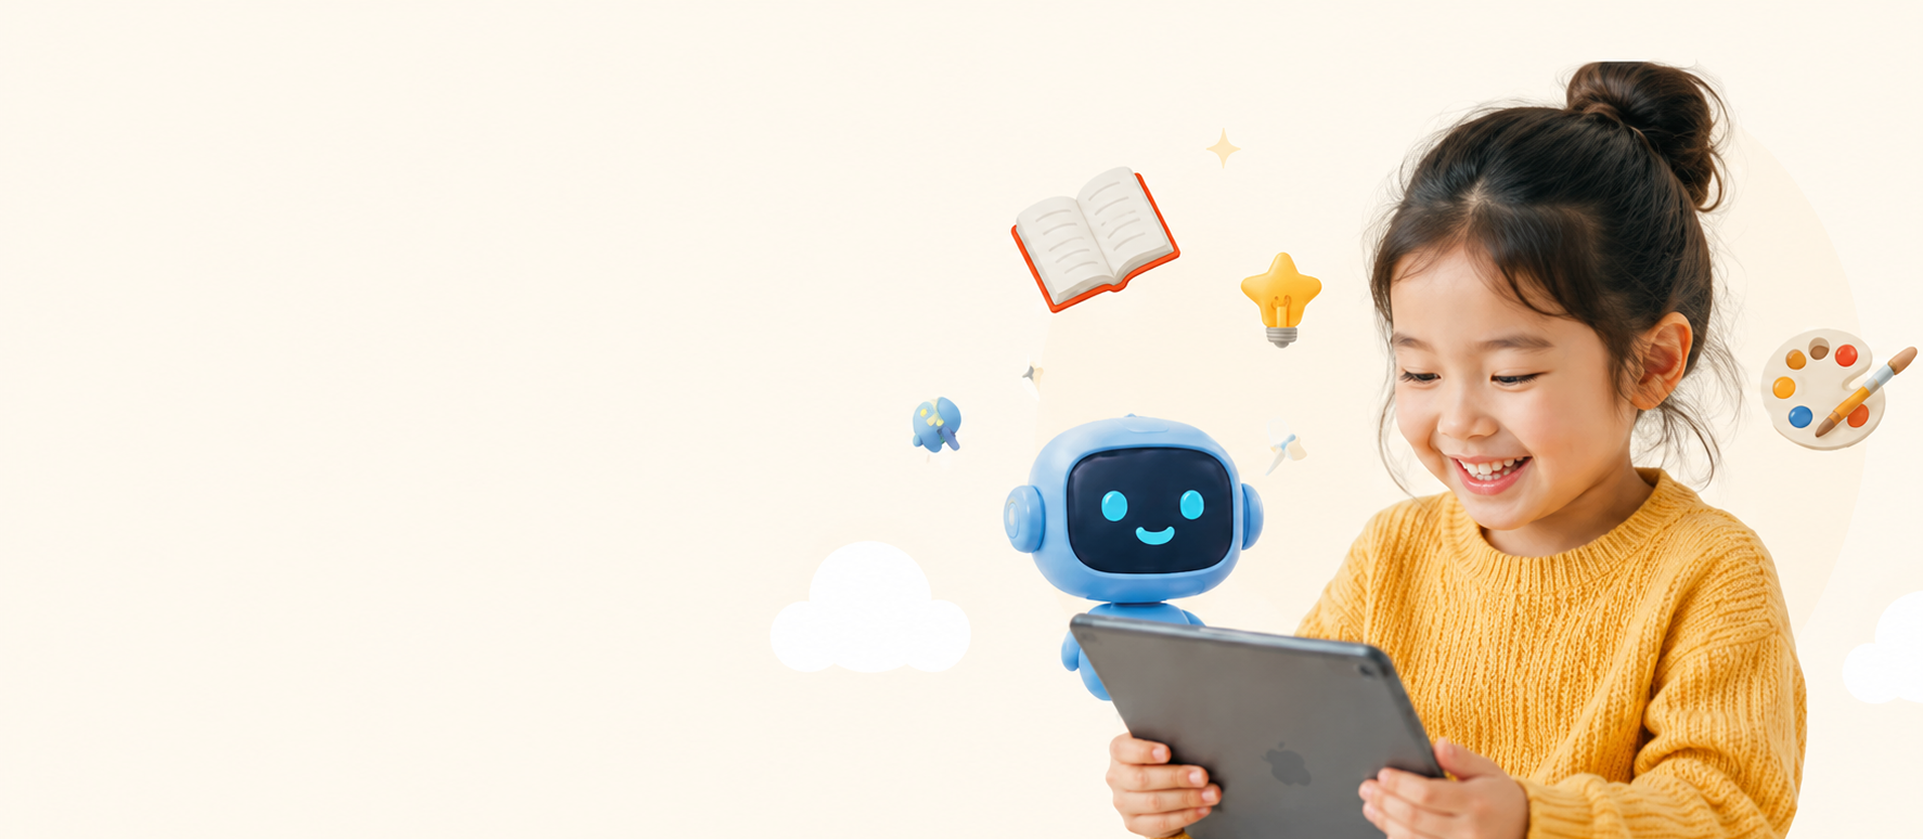
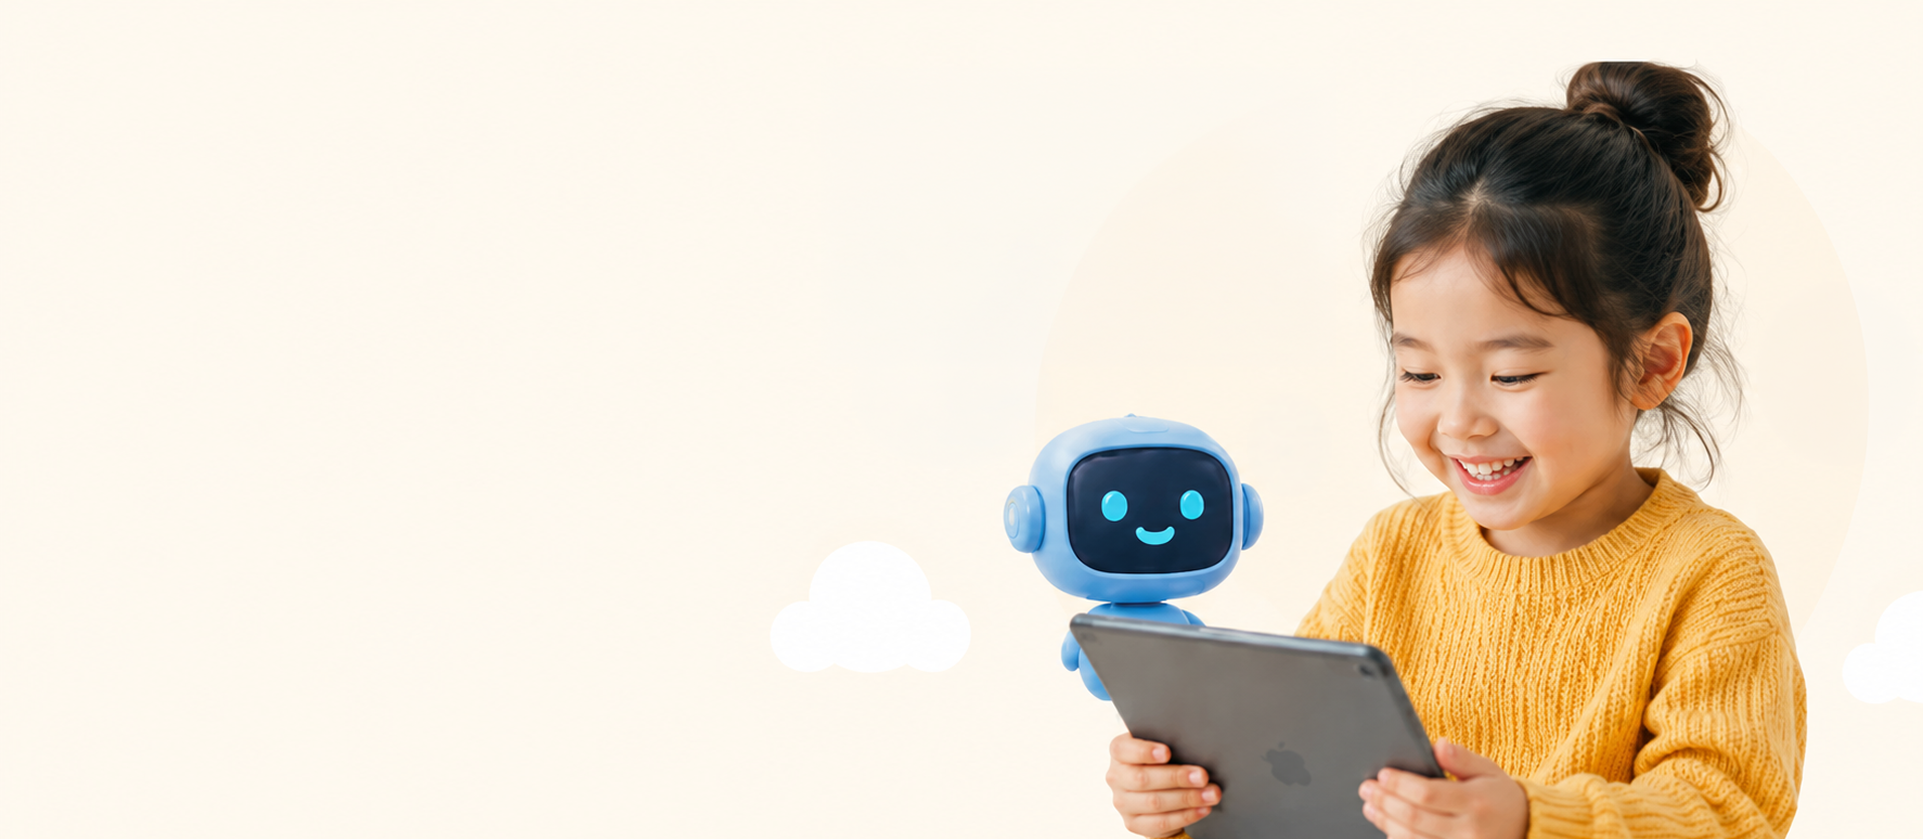
feat: position layered hero decorations

diff --git a/styles.css b/styles.css
@@ -1,11 +1,11 @@
 :root{--yellow:#ffbd00;--orange:#ffad00;--ink:#252525;--gray:#666;--cream:#fff3d8}*{box-sizing:border-box}html{scroll-behavior:smooth}body{margin:0;font-family:"Noto Sans KR",sans-serif;color:var(--ink);overflow-x:hidden}img{display:block;max-width:100%}a{text-decoration:none;color:inherit}button{font:inherit}
 header{height:136px;background:#fff;display:flex;align-items:center;position:relative;z-index:10}.nav-inner{width:min(1590px,84%);margin:auto;display:flex;align-items:center;justify-content:space-between}.brand{display:flex;align-items:center;gap:7px;color:#636363;font-size:27px}.brand img{width:43px;height:45px;object-fit:contain}.nav-inner>nav{display:flex;gap:77px;font-size:17px;font-weight:600}.nav-tools{display:flex;align-items:center;gap:18px}.contact{padding:12px 32px;border-radius:99px;background:var(--yellow);font-size:14px;font-weight:700}.nav-tools button{display:flex;align-items:center;gap:6px;padding:10px 17px;border:1px solid #eee;border-radius:99px;background:#fff}.nav-tools button img{width:18px}.menu{display:none;border:0;background:none;font-size:25px}
-.hero{height:min(43.7vw,839px);min-height:650px;position:relative;overflow:hidden;background:#fff}.hero-bg{position:absolute;width:100%;height:100%;object-fit:cover;object-position:center;border-bottom-right-radius:clamp(210px,24vw,460px)}.hero-content{position:relative;z-index:1;width:min(1590px,84%);margin:auto;padding-top:157px}.kicker,.heading p{margin:0 0 16px;color:var(--orange);font-size:24px;font-weight:800}.hero h1{margin:0 0 45px;font-size:88px;line-height:1.18;letter-spacing:-4px}.hero-desc{margin:0 0 39px;font-size:30px;line-height:1.55;color:#5e5e5e}.hero-actions{display:flex;gap:18px}.hero-actions a{display:flex;align-items:center;justify-content:space-between;gap:28px;padding:16px 34px;border-radius:99px;font-size:23px;font-weight:700;box-shadow:0 4px 12px #0001}.hero-actions img{width:8px;height:14px;object-fit:contain}.yellow-btn{background:var(--yellow)}.white-btn{background:#fff}
+.hero{height:min(43.7vw,839px);min-height:650px;position:relative;overflow:hidden;background:#fff}.hero-bg{position:absolute;width:100%;height:100%;object-fit:cover;object-position:center;border-bottom-right-radius:clamp(210px,24vw,460px)}.hero-decor{position:absolute;inset:0;z-index:1;pointer-events:none}.hero-decor img{position:absolute;height:auto}.hero-book{width:9.8%;left:51%;top:18.5%}.hero-bulb{width:4.85%;left:63.5%;top:29.5%}.hero-rocket{width:6%;left:44.7%;top:44.5%}.hero-palette{width:8.75%;left:90.2%;top:39%}.hero-content{position:relative;z-index:2;width:min(1590px,84%);margin:auto;padding-top:157px}.kicker,.heading p{margin:0 0 16px;color:var(--orange);font-size:24px;font-weight:800}.hero h1{margin:0 0 45px;font-size:88px;line-height:1.18;letter-spacing:-4px}.hero-desc{margin:0 0 39px;font-size:30px;line-height:1.55;color:#5e5e5e}.hero-actions{display:flex;gap:18px}.hero-actions a{display:flex;align-items:center;justify-content:space-between;gap:28px;padding:16px 34px;border-radius:99px;font-size:23px;font-weight:700;box-shadow:0 4px 12px #0001}.hero-actions img{width:8px;height:14px;object-fit:contain}.yellow-btn{background:var(--yellow)}.white-btn{background:#fff}
 .heading{text-align:center}.heading p{margin-bottom:9px;font-size:22px}.heading h2{margin:0;color:#5f5f5f;font-size:34px;letter-spacing:-1.5px}.philosophy{height:782px;padding-top:116px}.philosophy-grid{width:min(1590px,84%);margin:48px auto 0;display:grid;grid-template-columns:repeat(3,1fr);gap:82px}.philosophy-grid article{text-align:center}.oval{height:auto;aspect-ratio:1.5;position:relative;border:2px solid var(--yellow);border-radius:50%;overflow:visible}.oval>img:first-child{width:100%;height:100%;object-fit:cover;border-radius:inherit}.deco{position:absolute}.book{width:86px;left:7%;top:-14%}.bee{width:77px;right:-4%;bottom:-9%}.bulb{width:50px;right:5%;top:-13%}.philosophy-grid h3{font-size:18px;margin:16px 0 0}.philosophy-grid span{font-size:13px;color:#777}
 .services{min-height:1065px;padding:110px max(5vw,25px) 115px;background:var(--cream);border-radius:330px 0 0 0}.tabs{width:480px;height:59px;margin:23px auto 28px;padding:4px;background:#fff;border-radius:99px;display:flex}.tabs button{width:50%;border:0;background:transparent;border-radius:99px;font-weight:700;color:#666;cursor:pointer}.tabs button.active{background:var(--yellow);color:#785600}.service-card{width:min(1590px,100%);height:540px;margin:auto;padding:35px 70px 35px 45px;border:1px solid #eadfcd;border-radius:39px;background:#fff;display:grid;grid-template-columns:55% 45%;align-items:center}.product{height:100%;display:flex;align-items:center}.product img{width:100%;height:100%;object-fit:contain}.service-text{padding-left:38px}.age{display:flex;align-items:center;margin:0;color:var(--orange);font-weight:700}.age img{width:24px;margin-right:7px}.service-text h3{font-size:31px;margin:5px 0 17px}.summary{font-size:18px;line-height:1.58;color:#777;margin:0 0 5px}.more{display:flex;align-items:center;color:#a08d6e;font-size:15px}.more img{width:24px;margin-right:3px}.features{display:grid;grid-template-columns:repeat(4,1fr);gap:12px;margin-top:20px}.features div{text-align:center;font-size:13px;color:#555}.features img{width:78px;margin:0 auto 7px}.beesmart-card{display:flex;justify-content:center;text-align:center}.hidden{display:none!important}
 .spotlight{height:1055px;padding-top:114px}.heading h2 span{display:inline-block;position:relative}.heading h2 span img{position:absolute;width:100%;left:0;bottom:-13px;z-index:-1}.tablet-wrap{width:min(952px,64%);aspect-ratio:952/689;position:relative;margin:36px auto 15px}.tablet{position:absolute;inset:0;width:100%;height:100%;z-index:2}.screen{position:absolute;z-index:1;left:4.4%;right:4.4%;top:6%;bottom:6%;background:#f4f4f4;display:grid;place-items:center;text-align:center;color:#aaa;font-weight:600}.tv{position:absolute;z-index:3;width:215px;left:-93px;top:-72px}.spot-note{width:min(1120px,76%);height:68px;margin:auto;border:2px solid #ffd369;border-radius:99px;display:flex;justify-content:center;align-items:center;gap:17px;color:#626262;font-size:14px}.spot-note img{width:25px}.spot-note b{color:var(--yellow);font-size:23px}
 .gallery{padding:96px 0 137px}.gallery-scroll{overflow:hidden;margin-top:59px}.gallery-grid{width:2078px;margin-left:50%;transform:translateX(-50%);display:grid;grid-template-columns:repeat(9,203px);gap:25px 27px;align-items:start}.gallery-grid img{width:203px;height:260px;object-fit:contain}.gallery-grid img:first-child,.gallery-grid img:nth-child(5){width:115px;justify-self:center}
 footer{height:288px;background:#fff8ee;padding:50px max(5vw,25px)}.footer-inner{width:min(1590px,100%);margin:auto;display:grid;grid-template-columns:1fr 2fr 1.2fr;gap:50px}.footer-brand>div{display:flex;align-items:center;gap:8px;color:#666;font-size:25px}.footer-brand>div img{width:44px;height:46px;object-fit:contain}.footer-brand small{display:block;margin-top:70px;color:#777;font-size:10px}.footer-inner>p{font-size:11px;line-height:1.8;color:#777}.social{display:flex;justify-content:flex-end;gap:22px}.social img{width:43px}.footer-links nav{display:flex;justify-content:flex-end;gap:48px;margin-top:68px;font-size:11px}
 @media(max-width:1200px){.nav-inner>nav{gap:25px}.hero-content{padding-top:100px}.hero h1{font-size:55px}.hero-desc{font-size:22px}.hero-actions a{font-size:18px}.philosophy-grid{gap:35px}.service-card{padding-right:35px}.service-text{padding-left:15px}.service-text h3{font-size:25px}.summary{font-size:15px}}
-@media(max-width:900px){header{height:76px}.nav-inner{width:100%;padding:0 5%}.brand{font-size:19px}.brand img{width:31px;height:32px}.nav-inner>nav,.nav-tools{display:none}.menu{display:block}.nav-inner>nav.open{display:flex;position:absolute;top:76px;left:0;right:0;padding:12px 5%;background:#fff;flex-direction:column;gap:0;box-shadow:0 12px 20px #0001}.nav-inner>nav.open a{padding:13px;border-bottom:1px solid #eee}.hero{height:760px}.hero-bg{object-position:68% center;opacity:.42;border-bottom-right-radius:150px}.hero-content{width:90%;padding-top:80px}.hero h1{font-size:45px}.hero-desc{font-size:17px}.philosophy{height:auto;padding:80px 5%}.heading p{font-size:16px}.heading h2{font-size:25px}.philosophy-grid{width:min(460px,100%);grid-template-columns:1fr;gap:55px}.services{border-radius:110px 0 0 0;padding:80px 5%}.service-card{height:auto;padding:28px;grid-template-columns:1fr}.product{height:330px}.service-text{padding:15px 0 0}.features{grid-template-columns:repeat(2,1fr)}.spotlight{height:auto;padding:80px 5%}.tablet-wrap{width:100%;margin-top:70px}.tv{width:120px;left:-10px;top:-45px}.spot-note{width:100%;height:auto;min-height:58px;padding:10px;font-size:11px;gap:5px}.spot-note img{display:none}.gallery{padding:80px 0}.gallery-grid{width:1120px;margin-left:20px;transform:none;grid-template-columns:repeat(9,110px);gap:15px}.gallery-grid img,.gallery-grid img:first-child,.gallery-grid img:nth-child(5){width:110px;height:141px}.footer-inner{grid-template-columns:1fr;gap:20px}.footer-brand small{margin-top:20px}footer{height:auto}.social,.footer-links nav{justify-content:flex-start}.footer-links nav{margin-top:25px;gap:20px;flex-wrap:wrap}}
+@media(max-width:900px){header{height:76px}.nav-inner{width:100%;padding:0 5%}.brand{font-size:19px}.brand img{width:31px;height:32px}.nav-inner>nav,.nav-tools{display:none}.menu{display:block}.nav-inner>nav.open{display:flex;position:absolute;top:76px;left:0;right:0;padding:12px 5%;background:#fff;flex-direction:column;gap:0;box-shadow:0 12px 20px #0001}.nav-inner>nav.open a{padding:13px;border-bottom:1px solid #eee}.hero{height:760px}.hero-bg{object-position:68% center;opacity:.42;border-bottom-right-radius:150px}.hero-decor{opacity:.45}.hero-book{width:19%;left:45%;top:17%}.hero-bulb{width:10%;left:72%;top:29%}.hero-rocket{width:12%;left:4%;top:52%}.hero-palette{width:18%;left:84%;top:43%}.hero-content{width:90%;padding-top:80px}.hero h1{font-size:45px}.hero-desc{font-size:17px}.philosophy{height:auto;padding:80px 5%}.heading p{font-size:16px}.heading h2{font-size:25px}.philosophy-grid{width:min(460px,100%);grid-template-columns:1fr;gap:55px}.services{border-radius:110px 0 0 0;padding:80px 5%}.service-card{height:auto;padding:28px;grid-template-columns:1fr}.product{height:330px}.service-text{padding:15px 0 0}.features{grid-template-columns:repeat(2,1fr)}.spotlight{height:auto;padding:80px 5%}.tablet-wrap{width:100%;margin-top:70px}.tv{width:120px;left:-10px;top:-45px}.spot-note{width:100%;height:auto;min-height:58px;padding:10px;font-size:11px;gap:5px}.spot-note img{display:none}.gallery{padding:80px 0}.gallery-grid{width:1120px;margin-left:20px;transform:none;grid-template-columns:repeat(9,110px);gap:15px}.gallery-grid img,.gallery-grid img:first-child,.gallery-grid img:nth-child(5){width:110px;height:141px}.footer-inner{grid-template-columns:1fr;gap:20px}.footer-brand small{margin-top:20px}footer{height:auto}.social,.footer-links nav{justify-content:flex-start}.footer-links nav{margin-top:25px;gap:20px;flex-wrap:wrap}}
 @media(max-width:480px){.hero{height:690px}.hero-content{padding-top:60px}.hero h1{font-size:37px;letter-spacing:-2px}.hero-actions{display:grid;grid-template-columns:1fr 1fr;gap:10px}.hero-actions a{padding:14px 12px;font-size:13px;gap:8px}.heading h2{font-size:21px}.oval{max-width:330px;margin:auto}.tabs{height:50px}.service-card{padding:20px 15px}.product{height:230px}.service-text h3{font-size:22px}.summary{font-size:14px}.features img{width:65px}.screen{font-size:11px}.spot-note b{font-size:16px}.footer-inner{gap:12px}}

diff --git a/index.html b/index.html
@@ -25,6 +25,12 @@
   <main id="top">
     <section class="hero">
       <img class="hero-bg" src="assets/hero.png" alt="">
+      <div class="hero-decor" aria-hidden="true">
+        <img class="hero-book" src="assets/hero_책.png" alt="">
+        <img class="hero-bulb" src="assets/hero_전구.png" alt="">
+        <img class="hero-rocket" src="assets/hero_로켓.png" alt="">
+        <img class="hero-palette" src="assets/hero_팔레트.png" alt="">
+      </div>
       <div class="hero-content">
         <p class="kicker">AI EDUCATION COMPANY</p>
         <h1>우리 아이의 상상,<br>세상에 펼쳐지다</h1>
